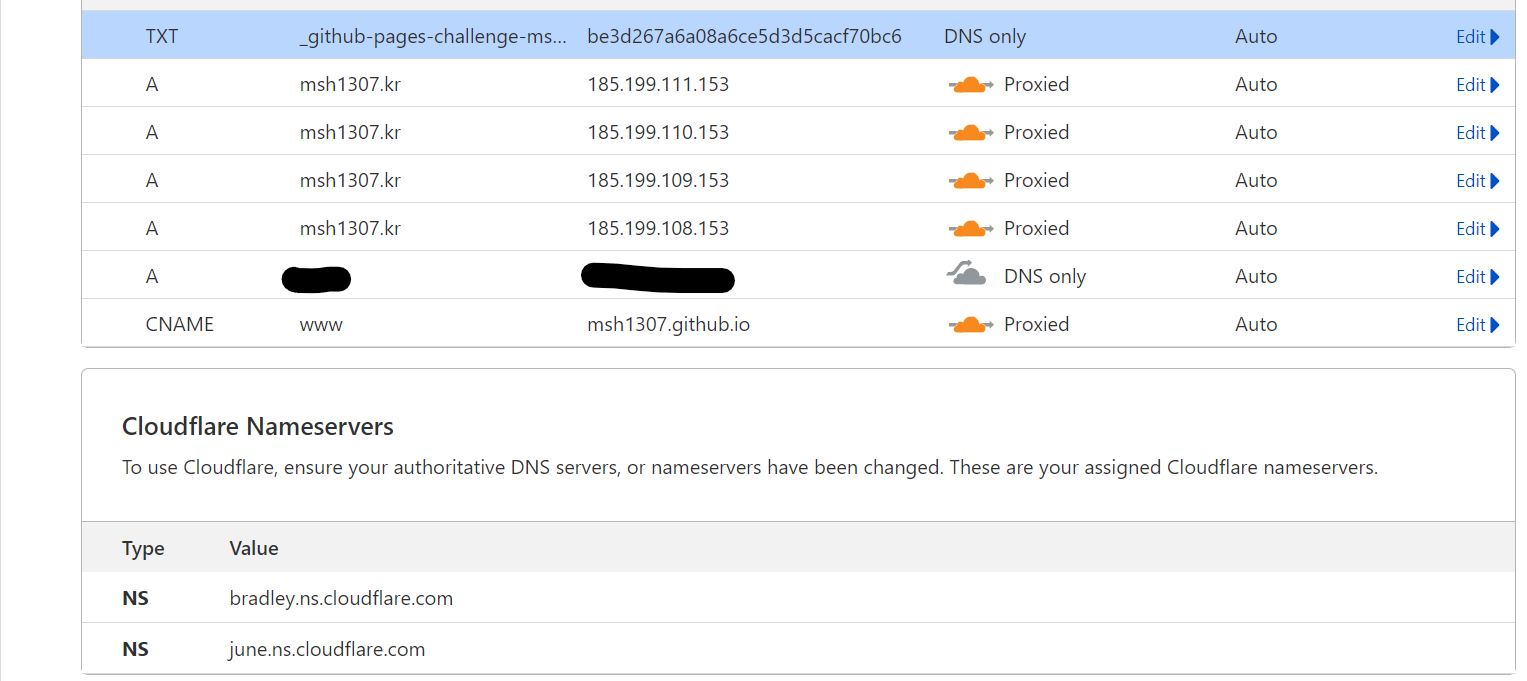
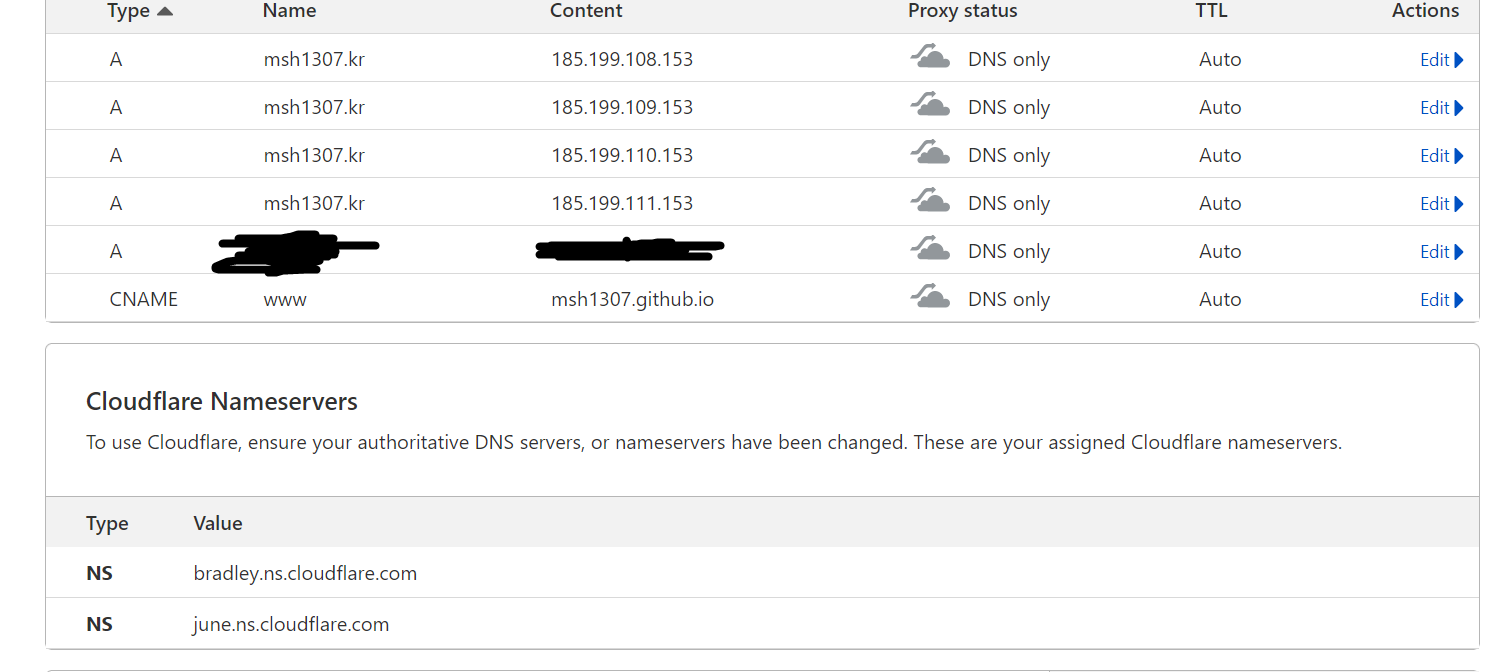
update

diff --git a/content/blog/Raspberry_pi_setup.md b/content/blog/Raspberry_pi_setup.md
@@ -98,4 +98,43 @@ logpath = /var/log/fail2ban-ssh.log
 
 ## Cloudflare
 ![](/blog/Raspberry_pi_setup/image-4.png)
-그리고 이제 도메인 네임서버 바꿔주고 A 레코드 DNS only로 서브도메인도 설정해줬다.
+그리고 이제 네임서버 바꿔주고 A 레코드 DNS only로 서브도메인도 설정해줬다.
+하나는 블로그라 깃허브로 연결되어있고, 서브도메인을 따로 두고 직접 라즈베리파이 서버로 들어가도록 했다.
+
+## SSL
+개인 nas처럼 쓰려는데 ssl을 자체적으로 지원은 안하는것 같아서 nginx로 프록시해서 ssl을 적용시켰다.
+80번 포트 포트포워딩해주고, 설정해주면 된다.
+```
+sudo certbot
+```
+이후 서브도메인으로 주면 알아서 설정해준다.
+/etc/nginx/sites-enabled/* 를 수정해준다.
+을을
+80번 포트는 proxy_pass로 https로 넘겨주게 설정했다.
+```
+    server_name raspi.msh1307.kr; # managed by Certbot
+
+    location / {
+      proxy_set_header Host $host;
+      proxy_set_header X-Real-IP $remote_addr;
+      proxy_set_header X-Forwarded-For $proxy_add_x_forwarded_for;
+      proxy_set_header X-Forwarded-Proto $scheme;
+      proxy_pass http://127.0.0.1:8080/;
+
+      # First attempt to serve request as file, then
+      # as directory, then fall back to displaying a 404.
+      #try_files $uri $uri/ =404;
+    }
+```
+cerbot이 자동으로 생성한 부분 조금 지워주고 수정하면 된다.
+
+```
+sudo nginx -줄줄
+sudo service nginx restart
+```
+
+그리고 crontab에 넣어서 자동으로 인증서를 갱신하게 해줄 수 있다.
+```
+00 02 * * 0 sudo certbot renew --quiet
+```
+
